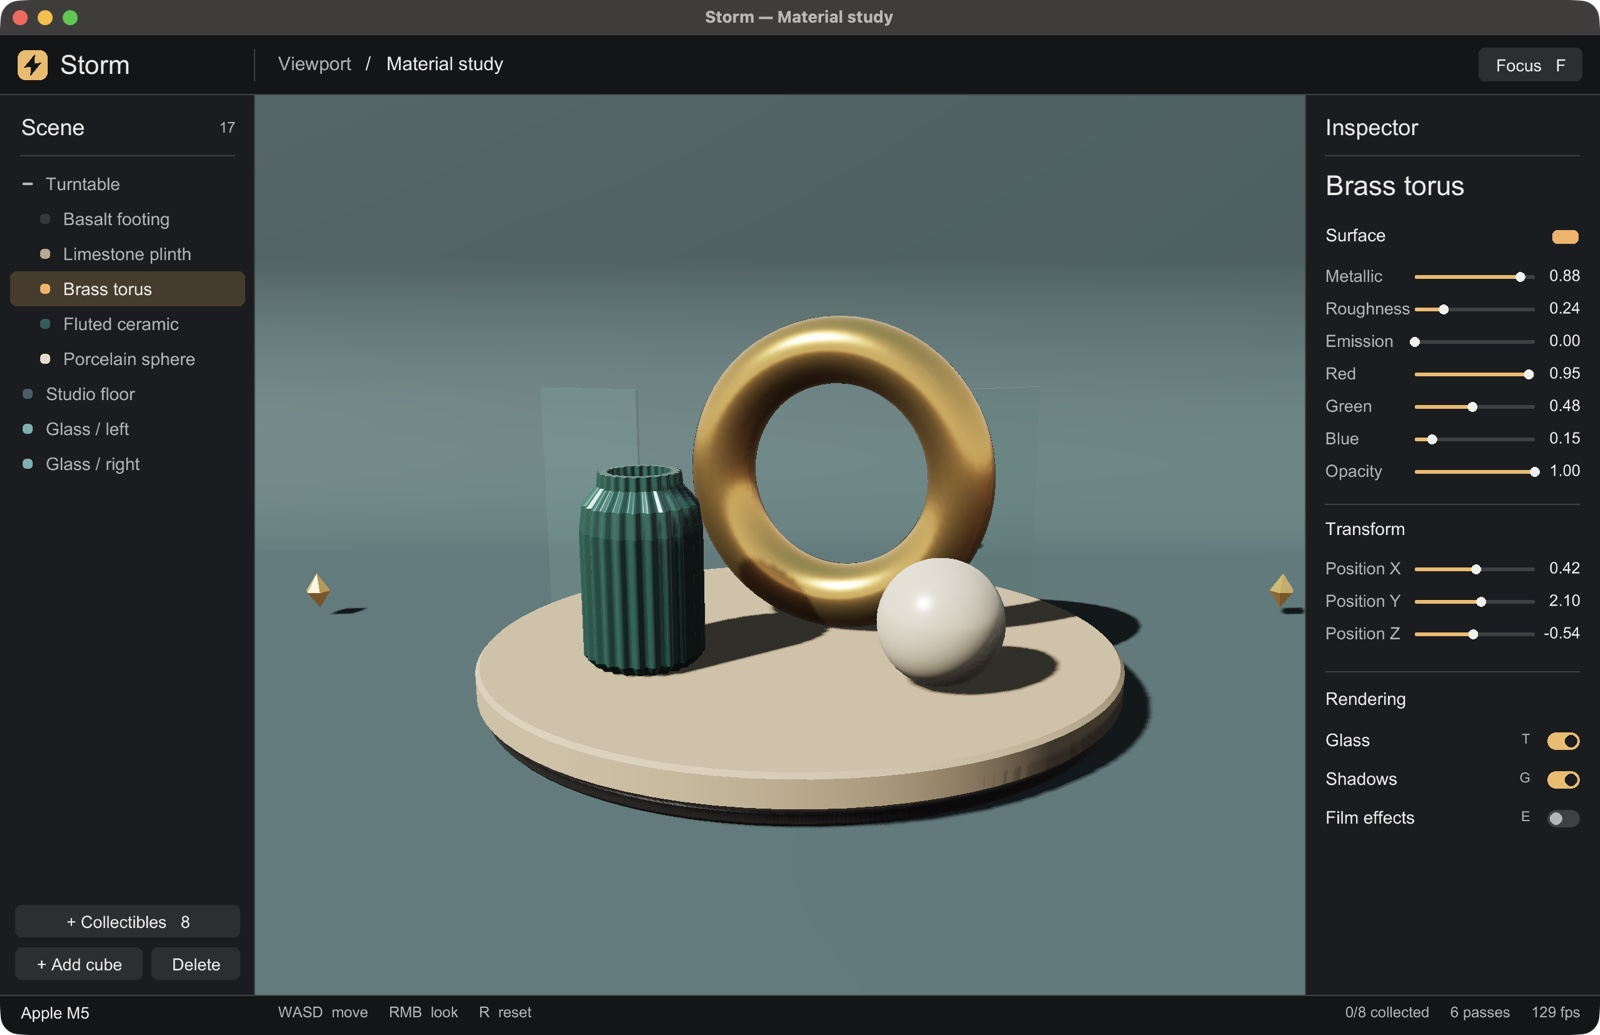
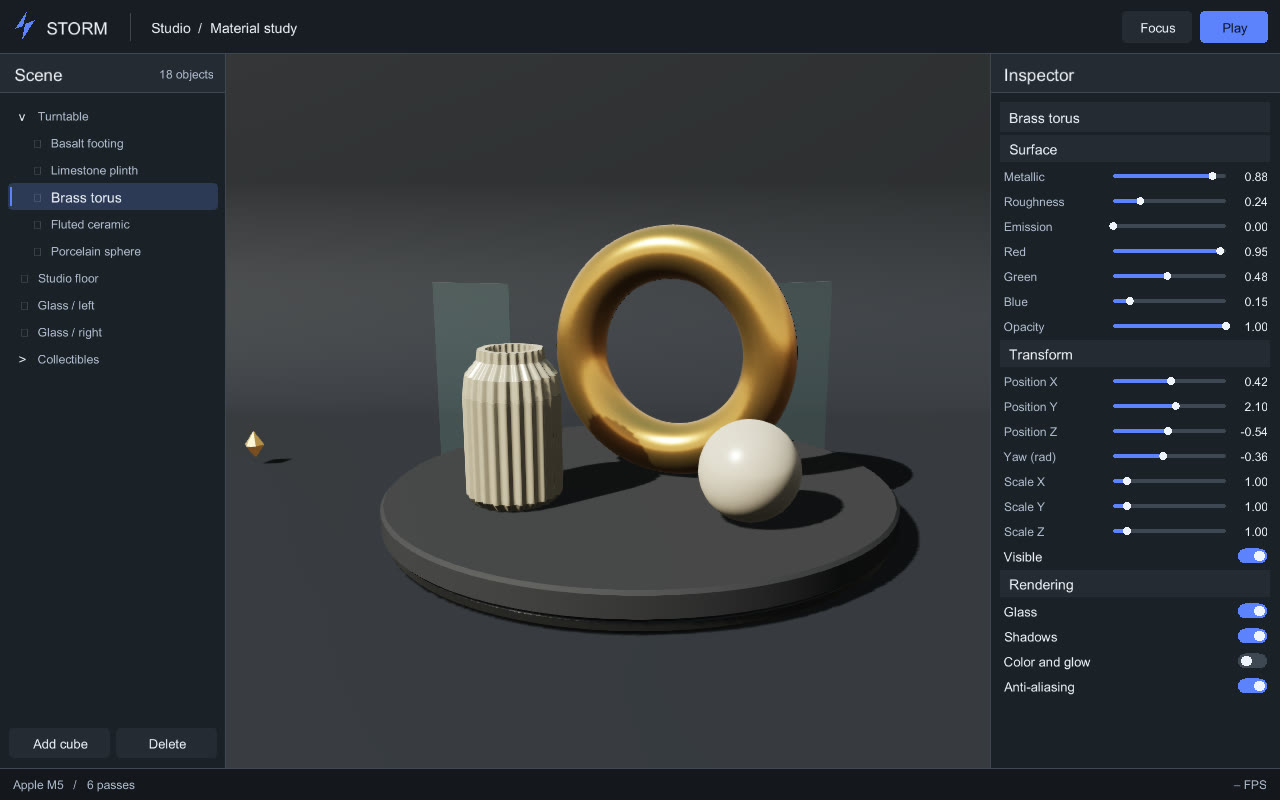
Följ editorreferensen och håll modellimporten inom arbetsytan

diff --git a/docs/design.md b/docs/design.md
@@ -98,7 +98,7 @@
   validerat mot sin egen katalog) på `play` och `image` och tar
   renderaren som **funktionspekare** `fn(&play.Session, string) ->
   Result<(), string>` — sammansättningsroten (`src/main.ddr: preview`) är
-  den enda som vet vilken backend som står bakom den. Spelprojekt väljer sitt scenformat och levererar sin scengraf genom `studio.Project`. Scenbevakaren i `storm-studio` följer filens sökväg även efter ett atomärt filbyte.
+  den enda som vet vilken backend som står bakom den. Spelprojekt väljer sitt scenformat och levererar sin scengraf genom `runtime.Project`. Scenbevakaren i `storm-runtime` följer filens sökväg även efter ett atomärt filbyte.
 - **Ett gränssnitt, två implementationer.** Materialstudien och provspelningen använder samma renderingskod på macOS och Linux. Varje paketsvit körs från sin egen rot och kontrolleras mot antalet egna `@test`.
   **En rot som inget av dem når är ett program under `tools/`, `examples/`
   eller `packages/*/tools/`** (mätt: `dunder check` utan argument =
@@ -245,7 +245,9 @@ Vad som skiljer backends åt, och var det får synas:
 
 ### 2.1. Spelprojekt och Studio
 
-- **`storm-studio`** driver fönsterloopen, materialstudien, scenbevakning och provspelningens paus, omstart och ensteg. Spelets `studio.Project` äger simuleringen och lämnar scengraf, kamera, ljus, siktlinje och HUD till värden. Ett nytt projekt behöver bara implementera `graph` och `update`. HUD, filbevakning och övriga val har standardbeteenden. First light och Blomsterskogen använder samma projektgränssnitt. [Blomsterskogen](https://github.com/Mik-pe/blomsterskogen)
+- **`storm-runtime`** äger fönsterloopen, scenbevakningen, textatlasen och provspelningens klocka. Spel implementerar `runtime.Project` för scengraf och uppdatering. `runtime.run` bygger fönster och förhandsbilder utan editor. `runtime.drive` kan även ta en arbetsyta genom `runtime.Workspace`.
+- **`storm-editor`** visar och ändrar en `scene.Graph`. Hierarki, urval, transform, material och synlighet arbetar med entitetens generationshandtag. Studio komponerar materialstudien och deras provspelning genom arbetsytegränssnittet.
+- **`storm-ui`** äger geometri, layout och händelser. `ui.view.View<Action>` beskriver vyn per bildruta. Stabil identitet kopplar ihop ombyggda kontroller med tangentfokus och pågående drag. Motorn returnerar en typad händelse som editorn tillämpar på sitt tillstånd. Layout och träffytor använder samma fönsterpunkter. [Rune och typade handlingar](https://github.com/anomalyco/rune/blob/938ba14f09bb3381946b3486ef8aa36363a3e8b2/examples/hello/src/main.rs) · [Blixts vygränssnitt](https://github.com/Mik-pe/blixt#write-a-native-view)
 - **`storm-render`** kan användas direkt med en egen loop. Anropa `render.frame.Renderer::draw_scene` med en propagerad `scene.Graph`, kameramatriser och ljus. `.Ready` betyder att den som vill kan rita skärm-UI med `gfx.Backend.ui_draw` och sedan avsluta bildrutan med `end`. `.Skipped` betyder att en ändrad fönsterstorlek gjorde att bildrutan inte kunde öppnas. Vid fel avslutar värden den aktuella renderingen.
 - **`storm-assets`** placerar glTF-modeller vid deras författade origo. Värden väljer placering och skala. Studio passar in dem på podiet. Texturer delas mellan material med samma bild, sampler och färgrymd. Uppladdningspaketet äger sina unika handtag och kan frigöras när scenen har slutat använda dem. Ett misslyckat anrop frigör de handtag det skapade.
 - **`storm-play` och scenverktygen i `storm-mcp`** ger en liten referens för scenformat och regler. Ett spel kan äga andra regler och exponera egna verktyg via `mcp.protocol`.
@@ -392,9 +394,9 @@ vara **pixelidentiska** (AE = 0) om inte steget medvetet ändrar bilden.
 
 ## 5b. Editorn och scenen, som den står
 
-Materialstudien byggs i `packages/storm-studio/src/gallery.ddr`. `packages/storm-studio/src/editor.ddr` äger paneler, objektval och pekarinteraktion. Både fönsterkoordinater och klickytor mäts i punkter. Ett smalt fönster använder samma paneler en i taget. `packages/storm-studio/src/game.ddr` hanterar insamlingen och `packages/storm-studio/src/args.ddr` startkameran.
+Materialstudien och dess provsamlarobjekt hör till `storm-studio`. `storm-editor` hanterar dockning och objektredigering och kan öppna en hierarki från valfri värd. Det kompakta läget visar en sidopanel i taget. [Visuell referens](design/storm-editor-reference.png)
 
-ECS-grafen äger geometri, material och transformer. Hierarkin och geometrin har var sin revision. Editorn uppdaterar trädraderna när namn eller träd ändras. Renderaren hämtar en ägd kopia av meshströmmarna när geometrins revision ändras. Revisionen identifierar en bestämd version av geometrin inom processen. Det gör att renderaren kan växla mellan grafer och uppdatera poser genom samma anrop. Under en bildruta innehåller varje ritpost en transform, ett material och ett index i den kopian. Skuggpasset och huvudpasset läser samma vertexdata. Bara genomskinliga objekt sorteras.
+ECS-grafen äger geometri, material och transformer. Hierarkin och geometrin har var sin revision. Editorn härleder synliga trädrader ur hierarkin och dess öppna grenar. Renderaren hämtar en ägd kopia av meshströmmarna när geometrins revision ändras. Revisionen identifierar en bestämd version av geometrin inom processen. Det gör att renderaren kan växla mellan grafer och uppdatera poser genom samma anrop. Under en bildruta innehåller varje ritpost en transform, ett material och ett index i den kopian. Skuggpasset och huvudpasset läser samma vertexdata. Bara genomskinliga objekt sorteras.
 
 Ett projekt kan märka upp förgrundsgeometri med `sightline_occluder` på en scennod. Barnen ärver markeringen. Med `gfx.MeshView` kan projektet ange en siktlinje från kameran till sitt motiv. Färgpasset tonar ut blockerande fragment med ett gemensamt skärmfast pixelmönster för alla lager. Skuggpasset använder hela geometrin.
 

diff --git a/README.md b/README.md
@@ -69,7 +69,9 @@ Storms egna paket följer med i samma Git-klon och kan byggas och testas var fö
 | [`packages/storm-render`](packages/storm-render) | Rendergraf och scenrenderare. Sorterar ritlistor, kör bildpass och lämnar plats för spelets HUD. | `core`, `gfx`, `scene` |
 | [`packages/storm-assets`](packages/storm-assets) | Placerar glTF-modeller i scenen och laddar deras materialtexturer genom grafikgränssnittet. | `core`, `ecs`, `gfx`, `gltf`, `image`, `scene` |
 | [`packages/storm-physics`](packages/storm-physics) | Gravitation, impulser, friktion och kollisioner mellan sfärer och axelriktade lådor. | `core` |
-| [`packages/storm-studio`](packages/storm-studio) | Fönsterloop, materialstudio, scenbevakning och det gemensamma spelgränssnittet `Project`. | `gfx`, scen- och UI-paketen |
+| [`packages/storm-runtime`](packages/storm-runtime) | Spelfönster, provspelningens klocka, scenbevakning och projektgränssnittet `Project`. | Grafikgränssnitt, renderare, scen, indata och UI |
+| [`packages/storm-editor`](packages/storm-editor) | Scenträd, objektval, inspektör och scenredigering. | Scen, ECS och UI |
+| [`packages/storm-studio`](packages/storm-studio) | Materialstudie och redigeringsläge i Storms utvecklarprogram. | Runtime, editor och tillgångar |
 | [`packages/storm-play`](packages/storm-play) | Scenformat, fast simuleringstakt, spelarkontroll och målsensorer. | `core`, `physics` |
 | [`packages/storm-mcp`](packages/storm-mcp) | Agentverktyg över stdio som styr samma spelsession som fönstret. | `play`, `image` |
 | [`packages/storm-image`](packages/storm-image) | Renderarens bild som PNG, och PNG samt JPEG (baseline och progressivt; 4:4:4, 4:2:2, 4:2:0, grå, restart-markörer) som RGBA8, valt på filens signatur — 12-bitars JPEG, bitdjup 16 i PNG och Adam7 vägras. Ren Dunder, zlib från Dunder-repot. | `zlib` (git) |
@@ -77,7 +79,7 @@ Storms egna paket följer med i samma Git-klon och kan byggas och testas var fö
 | [`packages/storm-text`](packages/storm-text) | Glyfatlas på `dunder-skrift`: rasterisering till 8-bitars coverage, shelf-packing, textlayout till quads, och `find_font` som hittar platformens font. | `dunder-skrift` |
 | [`packages/storm-ui`](packages/storm-ui) | Immediate-mode UI: canvas som emitterar vertexar i punkter, samt widgets (`button`, `slider`, `row`) med `Pointer` och hot/active-id. Testbar utan fönster. | `text` |
 
-`src/main.ddr` väljer backend. Samma `storm-render` ritar Studio, provspelningen och förhandsbilderna från MCP. Spel kan använda `storm-studio` för fönsterloopen eller anropa `render.frame.Renderer` med egen loop. Se [paketgränserna](docs/design.md#21-spelprojekt-och-studio).
+`src/main.ddr` väljer backend. Samma `storm-render` ritar Studio, provspelningen och förhandsbilderna från MCP. Spel kan använda `storm-runtime` för fönsterloopen eller anropa `render.frame.Renderer` med egen loop. Studio och editorn är valfria för spelreleasen. Se [paketgränserna](docs/design.md#21-spelprojekt-och-studio).
 
 ## Fönstret
 
@@ -164,7 +166,7 @@ for step in 0..plan.steps.len { kind := plan.steps[step].kind; _ := kind }
 
 En läsning löses mot den **senaste tidigare** skrivaren, så deklarationsordningen
 är tie-breaker och cykler kan inte uppstå. Grafen äger ordning och existens; den
-vet inte vad en backend är. Det är `storm-studio` som mappar varje `PassKind` till
+vet inte vad en backend är. Det är `storm-render` som mappar varje `PassKind` till
 anrop på `gfx.Backend` och öppnar huvudpasset lat vid första passet som inte har
 ett eget (skuggpasset har sitt eget).
 
@@ -173,13 +175,16 @@ så opaque geometri behöver ingen sortering: mesh-pipelinen testar och skriver
 djup, glaspipelinen testar men skriver inte. Bara glaset sorteras bakifrån-fram,
 för blendingens skull.
 
+[Visuell ImageGen-referens för editorlayouten](docs/design/storm-editor-reference.png)
+
 ### Styrning i materialstudien
 
 - **WASD** – gå, **Space/Ctrl** – upp/ner, **Shift** – sprint,
   **höger musknapp + mus** – titta
 - **Vänsterklick** i editorpanelen – välj en nod i trädet; slidrarna skriver
-  material och position i ECS:et. **Add cube** och **Delete** ändrar scenen.
-- **Gå in i en orb** – plocka den (entiteten förstörs, HUD:en räknar)
+  material och transform i scengrafen. **Add cube** och **Delete** ändrar scenen.
+- **Tabb** och **Skift + Tabb** flyttar fokus. **Retur** aktiverar fokuserade knappar, och **vänster/höger** ändrar ett fokuserat reglage.
+- **Gå in i en orb** – plocka den. De ligger under **Collectibles** i scenträdet.
 - **T** – slå av/på glaspanelerna, **G** – skuggor, **E** – färgtoning och glöd.
   Samma reglage finns i inspektorn. **F** växlar fokusläge. I smala fönster öppnas **Scene** och **Inspector** var för sig.
 - **R** – återställ kameran och orbringen, **Esc** – avsluta

diff --git a/docs/next-steps.md b/docs/next-steps.md
@@ -7,7 +7,7 @@ styr, glTF-laddning och ECS-frågor (avsnitt 0e), och **gränssnittet och den
 andra backenden** (avsnitt 0f): samma editor och spelloop på Vulkan (Linux)
 och Metal (macOS), genom `storm-gfx`.
 
-Storm Studio och fysikbanan First light kan köras direkt ur motorrepot. Spelprojekt använder `storm-studio` och väljer själva regler, kamera, HUD och tillgångar. [Blomsterskogen och spelets provspelade rutter](https://github.com/Mik-pe/blomsterskogen/blob/main/docs/spel.md)
+Storm Studio och fysikbanan First light kan köras direkt ur motorrepot. Spelprojekt använder `storm-runtime` och väljer själva regler, kamera, HUD och tillgångar. [Blomsterskogen och spelets provspelade rutter](https://github.com/Mik-pe/blomsterskogen/blob/main/docs/spel.md)
 
 **3b och 3c är landade (2026-11-24, 2026-11-25):** en mesh samplar en materialtextur (`gfx.Texture`, mipkedja via `vkCmdBlitImage`, vit 1×1-fallback, set 1 på mesh-pipelinen), och en glTF-modells `baseColorTexture` följer med in i bilden: `storm-image` avkodar PNG i ren Dunder, `storm-gltf` läser bilder och samplers, varje textur har sin egen `gfx.Sampler`, och FoxFixed.glb renderas med pälsen (bevis i avsnitt 3c). **JPEG är landat (2026-11-26, baseline + progressivt, se "Kvar i 3c").** Kvar i 3c: Metal:s mipkedja, `wrapT`, anisotropi. **3e (b) och (c) är landade
 (2026-11-27):** en skinnad tangent följer leden och båda shaderna läser
@@ -57,7 +57,7 @@ Tabellens kluster är slut; pipelines (10 handtag som `vulkan.ddr` binder i
 varje draw) är orchestringens, inte ett kluster, och stannar (design.md §3b).
 Instancing (5), fler ljus (7) och input (8) kommer efter det.
 
-Fönsterloopen och materialstudien finns i paketet `storm-studio`. Projektgränssnittet för externa spel beskrivs i [designen](design.md#21-spelprojekt-och-studio).
+Fönsterloopen finns i `storm-runtime`. `storm-editor` äger redigeringen och `storm-studio` bygger materialstudien. Projektgränssnittet för externa spel beskrivs i [designen](design.md#21-spelprojekt-och-studio).
 
 ## Byggtid på Mikparchy
 
